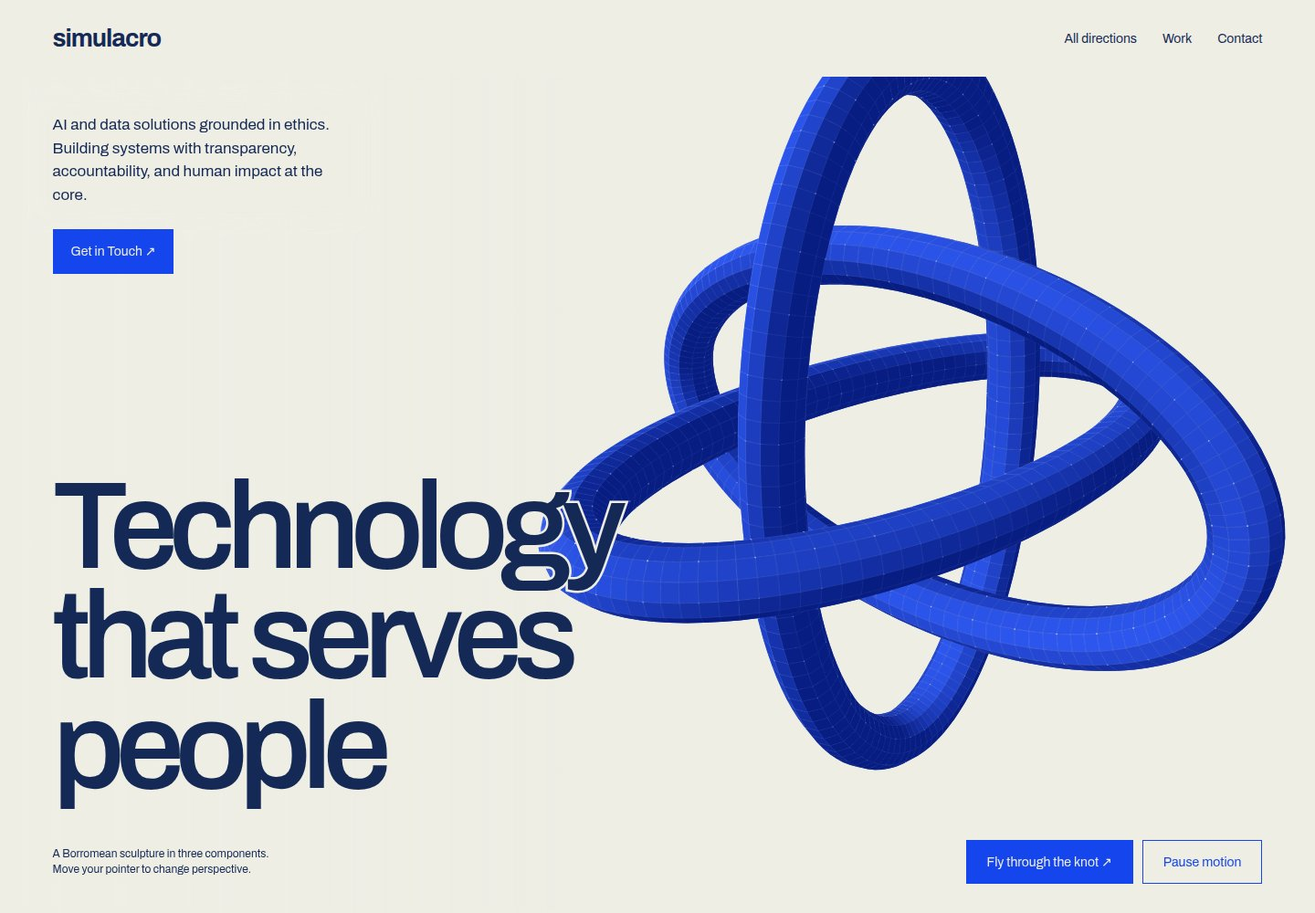
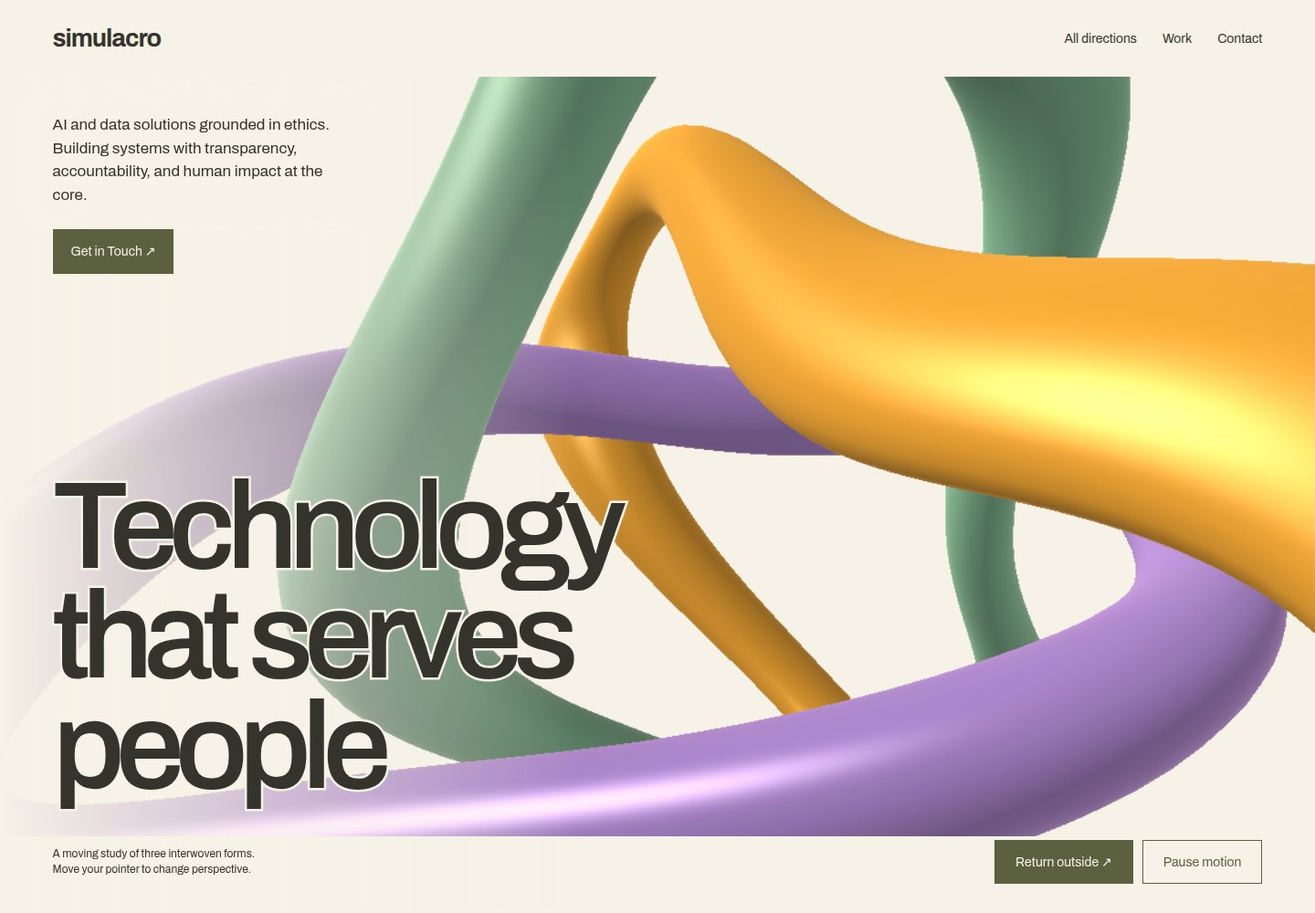
feat: render smooth distorted knot with default interior flight

diff --git a/public/worlds/next/04/index.html b/public/worlds/next/04/index.html
@@ -1,13 +1,55 @@
-<!doctype html><html lang="en"><head><meta charset="utf-8"><meta name="viewport" content="width=device-width,initial-scale=1"><meta name="theme-color" content="#eeeee5"><link rel="icon" href="data:,"><title>Simulacro · Inside the relation</title><style>
-@font-face{font-family:Archivo;src:url('../../assets/archivo.woff2') format('woff2');font-weight:100 900;font-display:swap}:root{--paper:#eeeee5;--ink:#152956;--blue:#1445ed;--muted:#53617c;--line:#b8bfd0;--pad:clamp(24px,4vw,70px);--ease:250ms ease}*{box-sizing:border-box}html{scroll-behavior:smooth}body{margin:0;color:var(--ink);background:var(--paper);font-family:Archivo,Arial,sans-serif}a{color:inherit;text-decoration:none}a:hover{text-decoration:underline;text-underline-offset:6px}a:focus-visible,button:focus-visible{outline:3px solid var(--blue);outline-offset:5px}button{font:inherit;cursor:pointer}#sculpture{position:fixed;inset:0;width:100%;height:100svh;z-index:0;pointer-events:none}header{background:var(--paper);position:relative;z-index:3;padding:27px var(--pad);display:flex;align-items:center;justify-content:space-between}.brand{font-size:27px;font-weight:700;letter-spacing:-1px}nav{display:flex;gap:28px;font-size:14px}main{position:relative;z-index:1}.hero{position:relative;height:calc(100svh - 86px);min-height:800px;max-height:1200px;isolation:isolate}.hero::before{content:'';position:absolute;inset:0;z-index:-1;background:linear-gradient(90deg,var(--paper) 0%,transparent 44%);pointer-events:none}.hero .intro{position:absolute;top:40px;left:var(--pad);width:325px;font-size:17px;line-height:1.5}.intro p{margin:0 0 25px;background:var(--paper);box-shadow:0 0 18px 12px var(--paper)}.intro>a{display:inline-block;padding:14px 20px;background:var(--blue);color:var(--paper);font-size:14px}.hero h1{position:absolute;bottom:120px;left:var(--pad);font-size:clamp(70px,9.4vw,150px);font-weight:550;letter-spacing:-.075em;line-height:.89;margin:0;max-width:790px;pointer-events:none;-webkit-text-stroke:5px var(--paper);paint-order:stroke fill}.hero h1 span{display:block}.art-controls{position:absolute;bottom:30px;left:var(--pad);right:var(--pad);display:flex;align-items:center;justify-content:space-between;gap:25px}.art-controls p{background:var(--paper);font-size:12px;max-width:260px;line-height:1.4;margin:0}.buttons{display:flex;gap:10px}.buttons button{border:1px solid var(--blue);background:var(--paper);color:var(--blue);padding:15px 22px;transition:background var(--ease),color var(--ease);font-size:14px}.buttons button:first-child{background:var(--blue);color:var(--paper)}.buttons button:hover{background:var(--ink);color:var(--paper)}.services{position:relative;background:var(--paper);padding:90px var(--pad) 110px}.services h2,.projects h2{font-size:clamp(60px,7.5vw,115px);font-weight:500;letter-spacing:-.065em;line-height:.95;margin:0 0 30px}.section-intro{font-size:21px;line-height:1.5;max-width:620px;margin:0 0 65px}.service-list{margin-left:29%;display:grid;gap:45px}.service{display:grid;grid-template-columns:1fr 1.2fr;gap:50px;border-top:1px solid var(--line);padding-top:25px}.service h3{font-size:29px;font-weight:500;letter-spacing:-.035em;margin:0}.service p{font-size:17px;line-height:1.55;margin:0}.projects{background:var(--paper);padding:0 var(--pad) 100px}.project-list{display:grid;grid-template-columns:1.4fr 1fr;gap:60px 9vw}.project:nth-child(even){margin-top:95px}.project{display:block;border-top:2px solid var(--blue);padding-top:25px}.project h3{font-size:clamp(40px,5vw,75px);font-weight:500;letter-spacing:-.05em;margin:0 0 20px}.project p{max-width:530px;font-size:19px;line-height:1.5;margin:0 0 25px}.project .link{font-size:14px;color:var(--blue)}.relation{height:65svh;min-height:450px;position:relative;pointer-events:none}.relation p{position:absolute;left:var(--pad);top:30px;padding:12px;background:var(--paper);font-size:14px;max-width:245px;line-height:1.4}.approach{padding:90px var(--pad);background:var(--paper)}.approach h2{font-size:clamp(56px,7.5vw,115px);font-weight:500;letter-spacing:-.065em;line-height:.95;margin:0 0 35px}.approach-intro{font-size:25px;line-height:1.4;max-width:900px;margin:0 0 65px}.disciplines{display:grid;grid-template-columns:1fr 1fr 1fr;gap:50px}.disciplines h3{font-size:25px;letter-spacing:-.03em;font-weight:500;margin:0 0 20px}.disciplines p{font-size:17px;line-height:1.55;margin:0}.bio{display:grid;grid-template-columns:120px 1fr;gap:35px;align-items:center;max-width:850px;margin:85px 0 0 auto}.bio img{width:120px;height:120px}.bio p{font-size:19px;line-height:1.5;margin:0}.contact{background:var(--paper);padding:60px var(--pad) 35px;border-top:1px solid var(--line)}.contact h2{font-weight:500;font-size:clamp(72px,12vw,190px);letter-spacing:-.075em;line-height:.9;margin:0 0 45px}.contact>a{font-size:clamp(23px,3.5vw,52px);color:var(--blue);text-decoration:underline;text-underline-offset:12px}footer{display:flex;justify-content:space-between;gap:30px;margin-top:100px;font-size:13px}footer div{display:flex;gap:25px}@media(max-width:700px){header{padding-top:22px}.brand{font-size:23px}nav{gap:15px;font-size:13px}nav a:nth-child(2){display:none}.hero{min-height:760px;height:calc(100svh - 72px)}.hero::before{background:linear-gradient(0deg,var(--paper) 0%,transparent 60%)}.hero .intro{top:12px;max-width:290px;font-size:15px}.intro p{margin-bottom:17px}.intro>a{padding:11px 15px}.hero h1{font-size:15vw;bottom:160px;line-height:.93;letter-spacing:-.07em}.art-controls{align-items:flex-start;flex-direction:column;bottom:25px;gap:17px}.art-controls p{max-width:100%;font-size:11px}.buttons{width:100%}.buttons button{padding:13px 17px;flex:1;white-space:nowrap}.services{padding-top:60px;padding-bottom:75px}.section-intro{font-size:19px;margin-bottom:40px}.service-list{margin-left:0;gap:35px}.service{grid-template-columns:1fr;gap:15px}.service h3{font-size:27px}.project-list{grid-template-columns:1fr;gap:40px}.project:nth-child(even){margin-top:0}.project p{font-size:17px}.projects{padding-bottom:65px}.relation{height:450px}.approach{padding-top:60px;padding-bottom:65px}.approach-intro{font-size:21px;margin-bottom:40px}.disciplines{grid-template-columns:1fr;gap:30px}.disciplines h3{margin-bottom:12px}.bio{grid-template-columns:70px 1fr;gap:20px;margin-top:50px}.bio img{width:70px;height:70px}.bio p{font-size:16px}.contact{padding-top:55px}.contact>a{font-size:5.3vw}footer{flex-direction:column;gap:20px;margin-top:75px}footer div{flex-wrap:wrap;gap:15px}}@media(prefers-reduced-motion:reduce){html{scroll-behavior:auto}*{transition:none!important}}
-</style></head><body><canvas id="sculpture" role="img" aria-label="Three interlocked cobalt Borromean elliptical rings formed from shaded filaments and points"></canvas><header><a class="brand" href="#">simulacro</a><nav><a href="../../index.html">All directions</a><a href="#work">Work</a><a href="#contact">Contact</a></nav></header><main><section class="hero"><div class="intro"><p>AI and data solutions grounded in ethics. Building systems with transparency, accountability, and human impact at the core.</p><a href="#contact">Get in Touch ↗</a></div><h1><span>Technology </span><span>that serves </span><span>people</span></h1><div class="art-controls"><p>A Borromean sculpture in three components.<br>Move your pointer to change perspective.</p><div class="buttons"><button id="fly" type="button" aria-pressed="false">Fly through the knot ↗</button><button id="pause" type="button" aria-pressed="false">Pause motion</button></div></div></section><section class="services"><h2>What We Build</h2><p class="section-intro">Interdisciplinary solutions that bridge technical depth with humanistic insight.</p><div class="service-list"><article class="service"><h3>AI & NLP Solutions</h3><p>Fine-tuned LLMs, RAG systems, embeddings, and topic modeling. Built with transparency and accountability from the start.</p></article><article class="service"><h3>Data Analysis & Research</h3><p>Mixed-methods research that pairs qualitative depth with computational rigor. Data mining, visualization, and statistical analysis.</p></article><article class="service"><h3>Pipelines & Automation</h3><p>Replacing manual data work with end-to-end pipelines – audio transcription, document parsing, web scraping, validation. Operators spend their time on judgement, not data entry.</p></article></div></section><section class="projects" id="work"><h2>Recent projects</h2><p class="section-intro">Production systems, research tools, end-to-end builds.</p><div class="project-list"><a class="project" href="https://lexgpt.com.br/"><h3>LexGPT ↗</h3><p>A legal research workbench for the persistent challenge of jurisprudence search, with factuality at the centre of AI-assisted work.</p><span class="link">Visit project</span></a><a class="project" href="https://simulacro.tech/projects/"><h3>Molcajete ↗</h3><p>AI-powered transcription and analysis pipeline for political focus group research.</p><span class="link">Explore project</span></a><a class="project" href="https://simulacro.tech/projects/"><h3>Adapta ↗</h3><p>LLM fine-tuning infrastructure for Mexican Spanish political analysis. A reproducible fine-tuning and evaluation pipeline.</p><span class="link">Explore project</span></a><a class="project" href="https://simulacro.tech/projects/"><h3>Glasshouse ↗</h3><p>A modular fact-checking toolkit designed to ease the workload of journalists facing a growing tide of misinformation.</p><span class="link">Explore project</span></a></div></section><div class="relation"><p>Three separate components.<br>One interdependent structure.<br>An artistic study of relation.</p></div><section class="approach"><h2>Why Work With Us</h2><p class="approach-intro">A rare blend of clinical psychology, philosophical training, and technical expertise. We bring depth that pure technologists can't match.</p><div class="disciplines"><article><h3>Clinical Background</h3><p>Years of psychotherapeutic practice shape how we understand technology's impact on real people.</p></article><article><h3>Philosophical Rigor</h3><p>Ethics isn't an afterthought. Training in philosophy means asking the hard questions before building, not after.</p></article><article><h3>Technical Depth</h3><p>From NLP pipelines to statistical analysis, the technical work is grounded in research-grade methodology.</p></article></div><div class="bio"><img src="../../assets/simulacro.png" alt="Simulacro's original sculptural identity"><p>Founded by Gustavo Costa, a psychologist turned data scientist. After years in clinical practice, he now applies that same attentiveness to how we build and deploy AI systems.</p></div></section><section class="contact" id="contact"><h2>What brings<br>you here?</h2><a href="mailto:contact@simulacro.tech">contact@simulacro.tech ↗</a><footer><span>Simulacro Tech · Human-centered AI and data consulting.</span><div><a href="../../index.html">All directions</a><a href="../../index.html#archive">All ten originals</a></div></footer></section></main><script>
-/* Three cyclic perpendicular ellipses, not a trefoil. The sculpture is stationary;
-   a translated look-at camera follows a curved orbit and an inward flight path. */
-(()=>{const canvas=document.querySelector('#sculpture'),ctx=canvas.getContext('2d'),fly=document.querySelector('#fly'),pause=document.querySelector('#pause'),mq=matchMedia('(prefers-reduced-motion: reduce)');let w=0,h=0,time=0,last=0,paused=mq.matches,flying=false,flight=0,mix=0,pointer=[0,0],smooth=[0,0],visible=true;const TAU=Math.PI*2,N=120,M=12,vertices=[],faces=[];
-const add=(a,b)=>a.map((v,i)=>v+b[i]),sub=(a,b)=>a.map((v,i)=>v-b[i]),mul=(a,n)=>a.map(v=>v*n),dot=(a,b)=>a.reduce((s,v,i)=>s+v*b[i],0),cross=(a,b)=>[a[1]*b[2]-a[2]*b[1],a[2]*b[0]-a[0]*b[2],a[0]*b[1]-a[1]*b[0]],norm=a=>mul(a,1/(Math.hypot(...a)||1));
-function component(k,p){return k===0?p:k===1?[p[2],p[0],p[1]]:[p[1],p[2],p[0]]}
-for(let k=0;k<3;k++){const offset=vertices.length;for(let i=0;i<N;i++){const u=i/N*TAU,C=[2.5*Math.cos(u),1.25*Math.sin(u),0],T=norm([-2.5*Math.sin(u),1.25*Math.cos(u),0]),B=[-T[1],T[0],0];for(let j=0;j<M;j++){const v=j/M*TAU,normal=add(mul(B,Math.cos(v)),[0,0,Math.sin(v)]);const normal3=component(k,normal),lighting=Math.max(0,dot(normal3,norm([-2,4,5])));vertices.push({p:component(k,add(C,mul(normal,.205))),n:normal3,k,j,i,lighting,color:`rgb(${Math.round(8+lighting*37)},${Math.round(29+lighting*58)},${Math.round(130+lighting*110)})`,stroke:`rgba(194,211,255,${.13+lighting*.25})`})}}for(let i=0;i<N;i++)for(let j=0;j<M;j++)faces.push([offset+i*M+j,offset+((i+1)%N)*M+j,offset+((i+1)%N)*M+(j+1)%M,offset+i*M+(j+1)%M])}
-function camera(){const a=.7+time*.12,orbit=[Math.sin(a)*6.7,2.6+Math.sin(time*.17)*1.1,Math.cos(a)*6.7],q=flight,close=[Math.sin(q*.75+.7)*(1.15+2.1*(.5+.5*Math.cos(q))),.45+Math.sin(q*.9)*.48,Math.cos(q*.75+.7)*(1.15+2.1*(.5+.5*Math.cos(q)))];let C=orbit.map((v,i)=>v*(1-mix)+close[i]*mix);C[0]+=smooth[0]*.5;C[1]+=smooth[1]*.35;const aim=[Math.sin(q*.5)*mix*.4,mix*.1,0],forward=norm(sub(aim,C)),right=norm(cross(forward,[0,1,0])),up=norm(cross(right,forward));return{C,forward,right,up}}
-function draw(){ctx.fillStyle='#eeeee5';ctx.fillRect(0,0,w,h);const cam=camera(),mobile=w<700,F=Math.min(w,h)*(mobile?1.05:1.12),center=[w*(mobile?.57:.69),h*(mobile?.47:.48)],projected=vertices.map(v=>{const dx=v.p[0]-cam.C[0],dy=v.p[1]-cam.C[1],dz=v.p[2]-cam.C[2],z=dx*cam.forward[0]+dy*cam.forward[1]+dz*cam.forward[2];return{x:center[0]+(dx*cam.right[0]+dy*cam.right[1]+dz*cam.right[2])*F/z,y:center[1]-(dx*cam.up[0]+dy*cam.up[1]+dz*cam.up[2])*F/z,z}});const sorted=[];for(const face of faces){const a=projected[face[0]],b=projected[face[1]],c=projected[face[2]],d=projected[face[3]];if(Math.min(a.z,b.z,c.z,d.z)<.16)continue;if(Math.max(a.x,b.x,c.x,d.x)<-10||Math.min(a.x,b.x,c.x,d.x)>w+10||Math.max(a.y,b.y,c.y,d.y)<-10||Math.min(a.y,b.y,c.y,d.y)>h+10)continue;sorted.push({face,z:(a.z+b.z+c.z+d.z)/4})}sorted.sort((a,b)=>b.z-a.z);for(const f of sorted){const v=vertices[f.face[0]],p=projected[f.face[0]],lighting=v.lighting;ctx.beginPath();f.face.forEach((id,i)=>{const p=projected[id];i?ctx.lineTo(p.x,p.y):ctx.moveTo(p.x,p.y)});ctx.closePath();ctx.fillStyle=v.color;ctx.fill();ctx.strokeStyle=v.stroke;ctx.lineWidth=.35;ctx.stroke();if(v.i%3===0&&v.j%2===0){const s=Math.min(2.5,F/f.z*.008);ctx.fillStyle=`rgba(226,235,255,${.35+lighting*.45})`;ctx.fillRect(p.x-s/2,p.y-s/2,s,s)}}}
-function resize(){w=innerWidth;h=innerHeight;const d=Math.min(devicePixelRatio,1.5);canvas.width=w*d;canvas.height=h*d;ctx.setTransform(d,0,0,d,0,0);draw()}function state(){pause.textContent=paused?'Resume motion':'Pause motion';pause.setAttribute('aria-pressed',String(paused));fly.textContent=flying?'Return to the outside ↗':'Fly through the knot ↗';fly.setAttribute('aria-pressed',String(flying))}pause.onclick=()=>{paused=!paused;state()};fly.onclick=()=>{flying=!flying;if(!mq.matches)paused=false;if(mq.matches){mix=flying?1:0;flight=1.9;draw()}state()};addEventListener('pointermove',e=>{pointer=[e.clientX/w-.5,.5-e.clientY/h]},{passive:true});addEventListener('resize',resize);mq.addEventListener('change',()=>{paused=mq.matches;if(paused){smooth=[0,0];mix=0;flying=false;draw()}state()});document.addEventListener('visibilitychange',()=>{visible=!document.hidden;last=0});function frame(now){const dt=Math.min(.04,(now-last)/1000||.016);last=now;if(!paused&&visible){time+=dt;flight+=dt*.32;smooth=smooth.map((v,i)=>v+(pointer[i]-v)*.035);mix+=(Number(flying)-mix)*.025;draw()}requestAnimationFrame(frame)}resize();state();requestAnimationFrame(frame)})();
+<!doctype html><html lang="en"><head><meta charset="utf-8"><meta name="viewport" content="width=device-width,initial-scale=1"><meta name="theme-color" content="#f6f2e7"><link rel="icon" href="data:,"><title>Simulacro · Inside the relation</title><style>
+@font-face{font-family:Archivo;src:url('../../assets/archivo.woff2') format('woff2');font-weight:100 900;font-display:swap}:root{--paper:#f6f2e7;--ink:#34342c;--blue:#5a6040;--muted:#696a5b;--line:#c9c8b6;--pad:clamp(24px,4vw,70px);--ease:250ms ease}*{box-sizing:border-box}html{scroll-behavior:smooth}body{margin:0;color:var(--ink);background:var(--paper);font-family:Archivo,Arial,sans-serif}a{color:inherit;text-decoration:none}a:hover{text-decoration:underline;text-underline-offset:6px}a:focus-visible,button:focus-visible{outline:3px solid var(--blue);outline-offset:5px}button{font:inherit;cursor:pointer}#sculpture{position:fixed;inset:0;width:100%;height:100svh;z-index:0;pointer-events:none}header{background:var(--paper);position:relative;z-index:3;padding:27px var(--pad);display:flex;align-items:center;justify-content:space-between}.brand{font-size:27px;font-weight:700;letter-spacing:-1px}nav{display:flex;gap:28px;font-size:14px}main{position:relative;z-index:1}.hero{position:relative;height:calc(100svh - 86px);min-height:800px;max-height:1200px;isolation:isolate}.hero::before{content:'';position:absolute;inset:0;z-index:-1;background:linear-gradient(90deg,var(--paper) 0%,transparent 44%);pointer-events:none}.hero .intro{position:absolute;top:40px;left:var(--pad);width:325px;font-size:17px;line-height:1.5}.intro p{margin:0 0 25px;background:var(--paper);box-shadow:0 0 18px 12px var(--paper)}.intro>a{display:inline-block;padding:14px 20px;background:var(--blue);color:var(--paper);font-size:14px}.hero h1{position:absolute;bottom:120px;left:var(--pad);font-size:clamp(70px,9.4vw,150px);font-weight:550;letter-spacing:-.075em;line-height:.89;margin:0;max-width:790px;pointer-events:none;-webkit-text-stroke:5px var(--paper);paint-order:stroke fill}.hero h1 span{display:block}.art-controls{position:absolute;bottom:30px;left:var(--pad);right:var(--pad);display:flex;align-items:center;justify-content:space-between;gap:25px}.art-controls p{background:var(--paper);font-size:12px;max-width:260px;line-height:1.4;margin:0}.buttons{display:flex;gap:10px}.buttons button{border:1px solid var(--blue);background:var(--paper);color:var(--blue);padding:15px 22px;transition:background var(--ease),color var(--ease);font-size:14px}.buttons button:first-child{background:var(--blue);color:var(--paper)}.buttons button:hover{background:var(--ink);color:var(--paper)}.services{position:relative;background:var(--paper);padding:90px var(--pad) 110px}.services h2,.projects h2{font-size:clamp(60px,7.5vw,115px);font-weight:500;letter-spacing:-.065em;line-height:.95;margin:0 0 30px}.section-intro{font-size:21px;line-height:1.5;max-width:620px;margin:0 0 65px}.service-list{margin-left:29%;display:grid;gap:45px}.service{display:grid;grid-template-columns:1fr 1.2fr;gap:50px;border-top:1px solid var(--line);padding-top:25px}.service h3{font-size:29px;font-weight:500;letter-spacing:-.035em;margin:0}.service p{font-size:17px;line-height:1.55;margin:0}.projects{background:var(--paper);padding:0 var(--pad) 100px}.project-list{display:grid;grid-template-columns:1.4fr 1fr;gap:60px 9vw}.project:nth-child(even){margin-top:95px}.project{display:block;border-top:2px solid var(--blue);padding-top:25px}.project h3{font-size:clamp(40px,5vw,75px);font-weight:500;letter-spacing:-.05em;margin:0 0 20px}.project p{max-width:530px;font-size:19px;line-height:1.5;margin:0 0 25px}.project .link{font-size:14px;color:var(--blue)}.relation{height:65svh;min-height:450px;position:relative;pointer-events:none}.relation p{position:absolute;left:var(--pad);top:30px;padding:12px;background:var(--paper);font-size:14px;max-width:245px;line-height:1.4}.approach{padding:90px var(--pad);background:var(--paper)}.approach h2{font-size:clamp(56px,7.5vw,115px);font-weight:500;letter-spacing:-.065em;line-height:.95;margin:0 0 35px}.approach-intro{font-size:25px;line-height:1.4;max-width:900px;margin:0 0 65px}.disciplines{display:grid;grid-template-columns:1fr 1fr 1fr;gap:50px}.disciplines h3{font-size:25px;letter-spacing:-.03em;font-weight:500;margin:0 0 20px}.disciplines p{font-size:17px;line-height:1.55;margin:0}.bio{display:grid;grid-template-columns:120px 1fr;gap:35px;align-items:center;max-width:850px;margin:85px 0 0 auto}.bio img{width:120px;height:120px}.bio p{font-size:19px;line-height:1.5;margin:0}.contact{background:var(--paper);padding:60px var(--pad) 35px;border-top:1px solid var(--line)}.contact h2{font-weight:500;font-size:clamp(72px,12vw,190px);letter-spacing:-.075em;line-height:.9;margin:0 0 45px}.contact>a{font-size:clamp(23px,3.5vw,52px);color:var(--blue);text-decoration:underline;text-underline-offset:12px}footer{display:flex;justify-content:space-between;gap:30px;margin-top:100px;font-size:13px}footer div{display:flex;gap:25px}@media(max-width:700px){header{padding-top:22px}.brand{font-size:23px}nav{gap:15px;font-size:13px}nav a:nth-child(2){display:none}.hero{min-height:760px;height:calc(100svh - 72px)}.hero::before{background:linear-gradient(0deg,var(--paper) 0%,transparent 60%)}.hero .intro{top:12px;max-width:290px;font-size:15px}.intro p{margin-bottom:17px}.intro>a{padding:11px 15px}.hero h1{font-size:15vw;bottom:160px;line-height:.93;letter-spacing:-.07em}.art-controls{align-items:flex-start;flex-direction:column;bottom:25px;gap:17px}.art-controls p{max-width:100%;font-size:11px}.buttons{width:100%}.buttons button{padding:13px 17px;flex:1;white-space:nowrap}.services{padding-top:60px;padding-bottom:75px}.section-intro{font-size:19px;margin-bottom:40px}.service-list{margin-left:0;gap:35px}.service{grid-template-columns:1fr;gap:15px}.service h3{font-size:27px}.project-list{grid-template-columns:1fr;gap:40px}.project:nth-child(even){margin-top:0}.project p{font-size:17px}.projects{padding-bottom:65px}.relation{height:450px}.approach{padding-top:60px;padding-bottom:65px}.approach-intro{font-size:21px;margin-bottom:40px}.disciplines{grid-template-columns:1fr;gap:30px}.disciplines h3{margin-bottom:12px}.bio{grid-template-columns:70px 1fr;gap:20px;margin-top:50px}.bio img{width:70px;height:70px}.bio p{font-size:16px}.contact{padding-top:55px}.contact>a{font-size:5.3vw}footer{flex-direction:column;gap:20px;margin-top:75px}footer div{flex-wrap:wrap;gap:15px}}@media(prefers-reduced-motion:reduce){html{scroll-behavior:auto}*{transition:none!important}}
+</style></head><body><canvas id="sculpture" role="img" aria-label="Three luminous amber, sage, and lilac loops, continuously bending around a travelling perspective camera"></canvas><header><a class="brand" href="#">simulacro</a><nav><a href="../../index.html">All directions</a><a href="#work">Work</a><a href="#contact">Contact</a></nav></header><main><section class="hero"><div class="intro"><p>AI and data solutions grounded in ethics. Building systems with transparency, accountability, and human impact at the core.</p><a href="#contact">Get in Touch ↗</a></div><h1><span>Technology </span><span>that serves </span><span>people</span></h1><div class="art-controls"><p>A moving study of three interwoven forms.<br>Move your pointer to change perspective.</p><div class="buttons"><button id="fly" type="button" aria-pressed="false">Return outside ↗</button><button id="pause" type="button" aria-pressed="false">Pause motion</button></div></div></section><section class="services"><h2>What We Build</h2><p class="section-intro">Interdisciplinary solutions that bridge technical depth with humanistic insight.</p><div class="service-list"><article class="service"><h3>AI & NLP Solutions</h3><p>Fine-tuned LLMs, RAG systems, embeddings, and topic modeling. Built with transparency and accountability from the start.</p></article><article class="service"><h3>Data Analysis & Research</h3><p>Mixed-methods research that pairs qualitative depth with computational rigor. Data mining, visualization, and statistical analysis.</p></article><article class="service"><h3>Pipelines & Automation</h3><p>Replacing manual data work with end-to-end pipelines – audio transcription, document parsing, web scraping, validation. Operators spend their time on judgement, not data entry.</p></article></div></section><section class="projects" id="work"><h2>Recent projects</h2><p class="section-intro">Production systems, research tools, end-to-end builds.</p><div class="project-list"><a class="project" href="https://lexgpt.com.br/"><h3>LexGPT ↗</h3><p>A legal research workbench for the persistent challenge of jurisprudence search, with factuality at the centre of AI-assisted work.</p><span class="link">Visit project</span></a><a class="project" href="https://simulacro.tech/projects/"><h3>Molcajete ↗</h3><p>AI-powered transcription and analysis pipeline for political focus group research.</p><span class="link">Explore project</span></a><a class="project" href="https://simulacro.tech/projects/"><h3>Adapta ↗</h3><p>LLM fine-tuning infrastructure for Mexican Spanish political analysis. A reproducible fine-tuning and evaluation pipeline.</p><span class="link">Explore project</span></a><a class="project" href="https://simulacro.tech/projects/"><h3>Glasshouse ↗</h3><p>A modular fact-checking toolkit designed to ease the workload of journalists facing a growing tide of misinformation.</p><span class="link">Explore project</span></a></div></section><div class="relation"><p>Three separate components.<br>One interdependent structure.<br>An artistic study of relation and motion.</p></div><section class="approach"><h2>Why Work With Us</h2><p class="approach-intro">A rare blend of clinical psychology, philosophical training, and technical expertise. We bring depth that pure technologists can't match.</p><div class="disciplines"><article><h3>Clinical Background</h3><p>Years of psychotherapeutic practice shape how we understand technology's impact on real people.</p></article><article><h3>Philosophical Rigor</h3><p>Ethics isn't an afterthought. Training in philosophy means asking the hard questions before building, not after.</p></article><article><h3>Technical Depth</h3><p>From NLP pipelines to statistical analysis, the technical work is grounded in research-grade methodology.</p></article></div><div class="bio"><img src="../../assets/simulacro.png" alt="Simulacro's original sculptural identity"><p>Founded by Gustavo Costa, a psychologist turned data scientist. After years in clinical practice, he now applies that same attentiveness to how we build and deploy AI systems.</p></div></section><section class="contact" id="contact"><h2>What brings<br>you here?</h2><a href="mailto:contact@simulacro.tech">contact@simulacro.tech ↗</a><footer><span>Simulacro Tech · Human-centered AI and data consulting.</span><div><a href="../../index.html">All directions</a><a href="../../index.html#archive">All ten originals</a></div></footer></section></main><script>
+/* Three separate cyclic ellipse components. A shared smooth spatial warp makes
+   this an artistic Borromean study, not a strict static mathematical model.
+   Indexed geometry stays on the GPU: three draw calls, no CPU face sorting. */
+(()=>{const canvas=document.querySelector('#sculpture'),fly=document.querySelector('#fly'),pause=document.querySelector('#pause'),mq=matchMedia('(prefers-reduced-motion: reduce)');
+let gl;try{gl=canvas.getContext('webgl2',{alpha:true,antialias:false,preserveDrawingBuffer:false,powerPreference:'high-performance'});}catch(e){}
+if(!gl){canvas.style.display='none';fly.hidden=true;pause.hidden=true;document.querySelector('.art-controls p').textContent='A three-part sculptural study. Motion is unavailable in this browser.';return;}
+const vs=`#version 300 es
+precision highp float;
+in vec2 uv;
+uniform float time;
+uniform int component;
+uniform mat4 view;
+uniform mat4 projection;
+out vec3 position;
+out vec3 normal;
+vec3 surface(vec2 q){
+ float u=q.x,v=q.y;
+ vec3 tangent=normalize(vec3(-2.5*sin(u),1.25*cos(u),0.));
+ vec3 side=vec3(-tangent.y,tangent.x,0.);
+ float thickness=.24+.055*sin(u*3.+time*.65);
+ vec3 p=vec3(2.5*cos(u),1.25*sin(u),0.)+thickness*(side*cos(v)+vec3(0.,0.,sin(v)));
+ if(component==1)p=p.zxy;
+ if(component==2)p=p.yzx;
+ // Smooth shears, applied to all components together, preserve their relation.
+ p.x+=.52*sin(p.z*1.15+time*.55);
+ p.y+=.42*sin(p.x*1.2-time*.48);
+ p.z+=.38*sin(p.y*1.5+time*.42);
+ return p;
+}
+void main(){position=surface(uv);vec3 du=surface(uv+vec2(.003,0.))-surface(uv-vec2(.003,0.));vec3 dv=surface(uv+vec2(0.,.003))-surface(uv-vec2(0.,.003));normal=normalize(cross(du,dv));gl_Position=projection*view*vec4(position,1.);}`;
+const fs=`#version 300 es
+precision highp float;
+in vec3 position;
+in vec3 normal;
+uniform vec3 tint;
+uniform vec3 eye;
+out vec4 color;
+void main(){vec3 n=normalize(normal);if(!gl_FrontFacing)n=-n;vec3 v=normalize(eye-position);vec3 light=normalize(vec3(-.7,1.2,1.));float diffuse=max(dot(n,light),0.);float spec=pow(max(dot(n,normalize(light+v)),0.),48.);float rim=pow(1.-max(dot(n,v),0.),3.);float fill=max(dot(n,normalize(vec3(.8,-.1,-.4))),0.);vec3 c=tint*(.49+.52*diffuse+.15*fill)+vec3(1.,.98,.87)*spec*.46+vec3(.16,.13,.12)*rim;c=mix(c,vec3(.965,.949,.906),smoothstep(7.,18.,distance(eye,position))*.65);color=vec4(c,1.);}`;
+function shader(type,source){const s=gl.createShader(type);gl.shaderSource(s,source);gl.compileShader(s);if(!gl.getShaderParameter(s,gl.COMPILE_STATUS))throw Error(gl.getShaderInfoLog(s));return s;}
+const program=gl.createProgram();gl.attachShader(program,shader(gl.VERTEX_SHADER,vs));gl.attachShader(program,shader(gl.FRAGMENT_SHADER,fs));gl.linkProgram(program);if(!gl.getProgramParameter(program,gl.LINK_STATUS))throw Error(gl.getProgramInfoLog(program));gl.useProgram(program);
+const locations={};for(const n of ['time','component','view','projection','tint','eye'])locations[n]=gl.getUniformLocation(program,n);
+const N=128,M=24,uvs=[],indices=[];for(let i=0;i<=N;i++)for(let j=0;j<=M;j++)uvs.push(i/N*Math.PI*2,j/M*Math.PI*2);for(let i=0;i<N;i++)for(let j=0;j<M;j++){const a=i*(M+1)+j,b=a+M+1;indices.push(a,b,a+1,b,b+1,a+1);}
+const vao=gl.createVertexArray();gl.bindVertexArray(vao);const buffer=gl.createBuffer();gl.bindBuffer(gl.ARRAY_BUFFER,buffer);gl.bufferData(gl.ARRAY_BUFFER,new Float32Array(uvs),gl.STATIC_DRAW);const attribute=gl.getAttribLocation(program,'uv');gl.vertexAttribPointer(attribute,2,gl.FLOAT,false,0,0);gl.enableVertexAttribArray(attribute);const indexBuffer=gl.createBuffer();gl.bindBuffer(gl.ELEMENT_ARRAY_BUFFER,indexBuffer);gl.bufferData(gl.ELEMENT_ARRAY_BUFFER,new Uint16Array(indices),gl.STATIC_DRAW);gl.enable(gl.DEPTH_TEST);gl.depthFunc(gl.LEQUAL);gl.clearColor(.965,.949,.906,1);
+let w=0,h=0,time=4.7,last=0,paused=mq.matches,outside=false,distanceMix=0,pointer=[0,0],smooth=[0,0],lost=false;
+const dot=(a,b)=>a[0]*b[0]+a[1]*b[1]+a[2]*b[2],sub=(a,b)=>a.map((v,i)=>v-b[i]),cross=(a,b)=>[a[1]*b[2]-a[2]*b[1],a[2]*b[0]-a[0]*b[2],a[0]*b[1]-a[1]*b[0]],norm=a=>{let d=Math.hypot(...a)||1;return a.map(v=>v/d)};
+const colors=[[1.,.69,.22],[.56,.78,.62],[.73,.57,.87]];
+function render(){if(lost)return;const phase=time*.23,r=1.45+1.25*(.5+.5*Math.sin(time*.29));const close=[Math.sin(phase)*r,.4+Math.sin(time*.31)*1.0,Math.cos(phase)*r];const far=[Math.sin(phase)*7,2.6,Math.cos(phase)*7];const eye=close.map((v,i)=>v*(1-distanceMix)+far[i]*distanceMix);eye[0]+=smooth[0]*.6;eye[1]+=smooth[1]*.45;const target=[Math.sin(phase+.9)*.45,Math.sin(time*.19)*.25,Math.cos(phase+.9)*.45],z=norm(sub(eye,target)),x=norm(cross([Math.sin(time*.13)*.16,1,0],z)),y=cross(z,x);const view=new Float32Array([x[0],y[0],z[0],0,x[1],y[1],z[1],0,x[2],y[2],z[2],0,-dot(x,eye),-dot(y,eye),-dot(z,eye),1]);const f=1/Math.tan(.62),near=.065,farPlane=40,projection=new Float32Array([f/(w/h),0,0,0,0,f,0,0,-.3,0,(farPlane+near)/(near-farPlane),-1,0,0,2*farPlane*near/(near-farPlane),0]);gl.clear(gl.COLOR_BUFFER_BIT|gl.DEPTH_BUFFER_BIT);gl.uniformMatrix4fv(locations.view,false,view);gl.uniformMatrix4fv(locations.projection,false,projection);gl.uniform3fv(locations.eye,eye);gl.uniform1f(locations.time,time);for(let k=0;k<3;k++){gl.uniform1i(locations.component,k);gl.uniform3fv(locations.tint,colors[k]);gl.drawElements(gl.TRIANGLES,indices.length,gl.UNSIGNED_SHORT,0);}}
+function resize(){w=innerWidth;h=innerHeight;const d=Math.min(devicePixelRatio,w>1000?.85:1);canvas.width=Math.round(w*d);canvas.height=Math.round(h*d);gl.viewport(0,0,canvas.width,canvas.height);render();}
+function state(){pause.textContent=paused?'Resume motion':'Pause motion';pause.setAttribute('aria-pressed',String(paused));fly.textContent=outside?'Travel inside ↗':'Return outside ↗';fly.setAttribute('aria-pressed',String(!outside));}
+pause.onclick=()=>{paused=!paused;state();};fly.onclick=()=>{outside=!outside;if(paused){distanceMix=outside?1:0;render();}state();};addEventListener('pointermove',e=>{pointer=[e.clientX/w-.5,.5-e.clientY/h]},{passive:true});addEventListener('resize',resize);mq.addEventListener('change',()=>{paused=mq.matches;if(paused){smooth=[0,0];render();}state();});canvas.addEventListener('webglcontextlost',e=>{e.preventDefault();lost=true;paused=true;state();pause.disabled=true;fly.disabled=true;document.querySelector('.art-controls p').textContent='Animation paused. Reload to restore the sculpture.';});function frame(now){const dt=Math.min(.04,(now-last)/1000||.016);last=now;if(!paused&&!document.hidden&&!lost){time+=dt;smooth=smooth.map((v,i)=>v+(pointer[i]-v)*Math.min(1,dt*3));distanceMix+=(Number(outside)-distanceMix)*Math.min(1,dt*1.6);render();}requestAnimationFrame(frame);}resize();state();requestAnimationFrame(frame);
+})();
 </script></body></html>

diff --git a/public/worlds/index.html b/public/worlds/index.html
@@ -1,6 +1,6 @@
 <!doctype html><html lang="en"><head><meta charset="utf-8"><meta name="viewport" content="width=device-width,initial-scale=1"><meta name="theme-color" content="#edece6"><meta name="description" content="Three selected Simulacro redesigns pushed further: human signal, Borromean knots, and immersive networks."><link rel="icon" href="data:,"><title>Simulacro · Further inside</title><style>
 @font-face{font-family:Archivo;src:url('assets/archivo.woff2') format('woff2');font-weight:100 900;font-display:swap}:root{--paper:#edece6;--ink:#1c1d18;--muted:#585b51;--line:#b7b9ae;--inset:clamp(20px,4vw,72px);--s1:8px;--s2:16px;--s3:24px;--s4:40px;--s5:64px;--s6:96px;--motion:280ms;--ease:cubic-bezier(.16,1,.3,1);color-scheme:light}*{box-sizing:border-box}html{scroll-behavior:smooth;scroll-padding-top:24px}body{margin:0;background:var(--paper);color:var(--ink);font-family:Archivo,Arial,sans-serif;-webkit-font-smoothing:antialiased}a{color:inherit;text-decoration:none}a:focus-visible,summary:focus-visible{outline:3px solid var(--ink);outline-offset:6px}::selection{background:var(--ink);color:var(--paper)}header{display:flex;justify-content:space-between;align-items:center;margin:0 var(--inset);padding:var(--s3) 0;gap:var(--s2);border-bottom:1px solid var(--line)}.brand{font-size:23px;font-weight:750;letter-spacing:-1.2px}header nav{display:flex;gap:var(--s3);font-size:14px}.edition{color:var(--muted);font-size:14px}main{padding:0 var(--inset)}.intro{padding:var(--s5) 0;display:grid;grid-template-columns:1fr 300px;gap:var(--s4);align-items:end}h1{font-size:clamp(72px,11vw,176px);line-height:.86;letter-spacing:-.075em;font-weight:650;margin:0;text-wrap:balance}.intro p{font-size:17px;line-height:1.5;max-width:32ch;margin:0}.intro p span{display:block;font-size:14px;color:var(--muted);margin-top:var(--s3)}.candidates{display:grid;gap:var(--s5)}.candidate{display:grid;grid-template-columns:1fr 3fr;gap:var(--s4);padding:var(--s3) 0 0;border-top:1px solid var(--line);scroll-margin-top:var(--s3)}.candidate-copy{display:flex;flex-direction:column;align-items:flex-start;padding-bottom:var(--s2)}.index{font-size:14px;font-variant-numeric:tabular-nums;color:var(--muted);margin-bottom:var(--s4)}h2{font-size:clamp(30px,3vw,50px);letter-spacing:-.05em;line-height:.98;font-weight:600;margin:0 0 var(--s3)}p{line-height:1.5;text-wrap:pretty}.candidate-copy p{font-size:16px;max-width:24ch;margin:0 0 var(--s3)}.palette{font-size:13px;color:var(--muted)}.launch{display:inline-block;margin-top:auto;padding-top:var(--s4);font-size:15px;text-decoration:underline;text-underline-offset:6px;transition:transform var(--motion) var(--ease)}.launch:hover{transform:translateX(5px)}.screen{position:relative;display:block;overflow:hidden;aspect-ratio:1.44;background:var(--line)}.screen img{width:100%;height:100%;object-fit:cover;display:block;transition:transform 650ms var(--ease)}.screen:hover img{transform:scale(1.025)}.screen>span{position:absolute;bottom:var(--s2);right:var(--s2);background:var(--paper);color:var(--ink);font-size:13px;padding:12px 16px;border-radius:6px;opacity:0;transform:translateY(8px);transition:opacity var(--motion),transform var(--motion)}.screen:is(:hover,:focus-visible)>span{opacity:1;transform:none}details{margin-top:var(--s6);border-top:1px solid var(--line);padding-top:var(--s3)}summary{cursor:pointer;list-style:none;display:flex;justify-content:space-between;align-items:center;font-size:clamp(24px,3vw,42px);letter-spacing:-.04em}summary::-webkit-details-marker{display:none}summary::after{content:'+';font-size:40px}details[open] summary::after{content:'−'}.archive-note{font-size:15px;color:var(--muted);margin:var(--s3) 0 var(--s4)}.collection{display:grid;grid-template-columns:1fr 1fr;gap:var(--s5) var(--s3)}.image{position:relative;aspect-ratio:1.44;background:var(--world);overflow:hidden}.image img{width:100%;height:100%;object-fit:cover;display:block}.image .open{display:none}.caption{display:grid;grid-template-columns:30px 1fr;gap:12px;margin-top:var(--s2);align-items:baseline}.caption h2{font-size:27px;margin:0}.caption p{font-size:14px;margin:10px 0 0;color:var(--muted);max-width:40ch}.caption>.palette{display:none}.number{font-size:14px;color:var(--muted)}.interaction{font-size:12px;color:var(--muted);margin-left:42px}footer{margin:var(--s5) var(--inset) 0;padding:var(--s3) 0 var(--s4);border-top:1px solid var(--line);display:flex;justify-content:space-between;gap:var(--s3);font-size:14px;color:var(--muted)}footer a{text-decoration:underline;text-underline-offset:5px}@media(max-width:1000px){.intro{grid-template-columns:1fr}.intro p{max-width:60ch}.candidate{grid-template-columns:1fr 2fr;gap:var(--s3)}.index{margin-bottom:var(--s3)}}@media(max-width:640px){.edition{display:none}header nav{gap:var(--s2);font-size:13px}.intro{padding:var(--s4) 0;gap:var(--s3)}h1{font-size:18vw}.intro p{font-size:16px}.intro p span{margin-top:var(--s2)}.candidate{grid-template-columns:1fr;gap:var(--s3)}.candidate-copy{display:grid;grid-template-columns:1fr auto;gap:var(--s2)}.index{grid-column:1/-1;margin:0}.candidate h2{grid-column:1/-1;margin:0;font-size:40px}.candidate-copy p{grid-column:1/-1;max-width:none;margin:0}.candidate .palette{align-self:end}.launch{margin:0;padding:0;font-size:13px}.screen>span{opacity:1;transform:none}.candidates{gap:var(--s4)}details{margin-top:var(--s5)}.collection{grid-template-columns:1fr;gap:var(--s4)}footer{flex-direction:column;gap:var(--s2)}}@media(prefers-reduced-motion:reduce){html{scroll-behavior:auto}*,*::before,*::after{transition:none!important;animation:none!important}.screen:hover img,.launch:hover{transform:none}}
-</style></head><body><header><a class="brand" href="index.html">simulacro.tech</a><span class="edition">Round two · Astra low</span><nav><a href="#candidates">Selected three</a><a href="#archive">First round</a></nav></header><main><section class="intro"><h1>Go further<br> inside.</h1><p>Three selected directions. Bigger forms, curved camera journeys, and the original Simulacro content.<span>Open a page, move your pointer, then enter its space. Motion is part of the design.</span></p></section><section class="candidates" id="candidates" aria-label="Three next-round redesigns"><article class="candidate" id="next-02"><div class="candidate-copy"><span class="index">02 / next</span><h2>Human signal</h2><p>From a human point cloud into a living network.</p><span class="palette">Warm paper / vermillion</span><a class="launch" href="next/02/index.html">Enter the field</a></div><a class="screen" href="next/02/index.html" aria-label="Open Human signal"><img src="assets/next-02.jpg" width="1440" height="1000" alt="Next-round Human signal landing-page preview"><span>Open interactive page</span></a></article><article class="candidate" id="next-04"><div class="candidate-copy"><span class="index">04 / next</span><h2>The Borromean knot</h2><p>An architectural knot, seen from within.</p><span class="palette">Ivory / cobalt</span><a class="launch" href="next/04/index.html">Fly through the knot</a></div><a class="screen" href="next/04/index.html" aria-label="Open The Borromean knot"><img src="assets/next-04.jpg" width="1440" height="1000" alt="Next-round The Borromean knot landing-page preview"><span>Open interactive page</span></a></article><article class="candidate" id="next-07"><div class="candidate-copy"><span class="index">07 / next</span><h2>Inside the network</h2><p>A curved journey through connected point clusters.</p><span class="palette">Vermillion / ink</span><a class="launch" href="next/07/index.html">Enter the network</a></div><a class="screen" href="next/07/index.html" aria-label="Open Inside the network"><img src="assets/next-07.jpg" width="1440" height="1000" alt="Next-round Inside the network landing-page preview"><span>Open interactive page</span></a></article></section><details id="archive"><summary>The first ten directions</summary><p class="archive-note">The original explorations, kept for comparison.</p><section id="collection" class="collection" aria-label="Ten landing-page redesigns"><article id="direction-01" style="--world:#10100e;--world-accent:#eba952"><a class="direction" href="01/index.html" aria-label="Explore Event horizon"><div class="image"><img src="assets/thumb-01.jpg" width="1440" height="1000" alt="Event horizon landing-page preview" loading="eager"><span class="open">Explore direction</span></div><div class="caption"><span class="number">01</span><div><h2>Event horizon</h2><p>Gravity, amber, and a field that bends around you.</p></div><span class="palette">Obsidian / amber</span></div></a><p class="interaction">Try: the gravitational field</p></article>
+</style></head><body><header><a class="brand" href="index.html">simulacro.tech</a><span class="edition">Round two · Astra low</span><nav><a href="#candidates">Selected three</a><a href="#archive">First round</a></nav></header><main><section class="intro"><h1>Go further<br> inside.</h1><p>Three selected directions. Bigger forms, curved camera journeys, and the original Simulacro content.<span>Open a page, move your pointer, then enter its space. Motion is part of the design.</span></p></section><section class="candidates" id="candidates" aria-label="Three next-round redesigns"><article class="candidate" id="next-02"><div class="candidate-copy"><span class="index">02 / next</span><h2>Human signal</h2><p>From a human point cloud into a living network.</p><span class="palette">Warm paper / vermillion</span><a class="launch" href="next/02/index.html">Enter the field</a></div><a class="screen" href="next/02/index.html" aria-label="Open Human signal"><img src="assets/next-02.jpg" width="1440" height="1000" alt="Next-round Human signal landing-page preview"><span>Open interactive page</span></a></article><article class="candidate" id="next-04"><div class="candidate-copy"><span class="index">04 / next</span><h2>The Borromean knot</h2><p>An architectural knot, seen from within.</p><span class="palette">Amber / sage / lilac</span><a class="launch" href="next/04/index.html">Fly through the knot</a></div><a class="screen" href="next/04/index.html" aria-label="Open The Borromean knot"><img src="assets/next-04.jpg" width="1440" height="1000" alt="Next-round The Borromean knot landing-page preview"><span>Open interactive page</span></a></article><article class="candidate" id="next-07"><div class="candidate-copy"><span class="index">07 / next</span><h2>Inside the network</h2><p>A curved journey through connected point clusters.</p><span class="palette">Vermillion / ink</span><a class="launch" href="next/07/index.html">Enter the network</a></div><a class="screen" href="next/07/index.html" aria-label="Open Inside the network"><img src="assets/next-07.jpg" width="1440" height="1000" alt="Next-round Inside the network landing-page preview"><span>Open interactive page</span></a></article></section><details id="archive"><summary>The first ten directions</summary><p class="archive-note">The original explorations, kept for comparison.</p><section id="collection" class="collection" aria-label="Ten landing-page redesigns"><article id="direction-01" style="--world:#10100e;--world-accent:#eba952"><a class="direction" href="01/index.html" aria-label="Explore Event horizon"><div class="image"><img src="assets/thumb-01.jpg" width="1440" height="1000" alt="Event horizon landing-page preview" loading="eager"><span class="open">Explore direction</span></div><div class="caption"><span class="number">01</span><div><h2>Event horizon</h2><p>Gravity, amber, and a field that bends around you.</p></div><span class="palette">Obsidian / amber</span></div></a><p class="interaction">Try: the gravitational field</p></article>
 <article id="direction-02" style="--world:#f0ede4;--world-accent:#c34225"><a class="direction" href="02/index.html" aria-label="Explore Human signal"><div class="image"><img src="assets/thumb-02.jpg" width="1440" height="1000" alt="Human signal landing-page preview" loading="eager"><span class="open">Explore direction</span></div><div class="caption"><span class="number">02</span><div><h2>Human signal</h2><p>A human presence assembled from a computational field.</p></div><span class="palette">Paper / vermillion</span></div></a><p class="interaction">Try: the point-cloud portrait</p></article>
 <article id="direction-03" style="--world:#c8ed44;--world-accent:#171c0b"><a class="direction" href="03/index.html" aria-label="Explore Language engine"><div class="image"><img src="assets/thumb-03.jpg" width="1440" height="1000" alt="Language engine landing-page preview" loading="lazy"><span class="open">Explore direction</span></div><div class="caption"><span class="number">03</span><div><h2>Language engine</h2><p>Words become material. Meaning becomes architecture.</p></div><span class="palette">Acid / black</span></div></a><p class="interaction">Try: the kinetic language sculpture</p></article>
 <article id="direction-04" style="--world:#ecebe2;--world-accent:#2048c8"><a class="direction" href="04/index.html" aria-label="Explore Impossible object"><div class="image"><img src="assets/thumb-04.jpg" width="1440" height="1000" alt="Impossible object landing-page preview" loading="lazy"><span class="open">Explore direction</span></div><div class="caption"><span class="number">04</span><div><h2>Impossible object</h2><p>Research takes shape in an impossible architecture.</p></div><span class="palette">Ivory / cobalt</span></div></a><p class="interaction">Try: the impossible sculpture</p></article>
